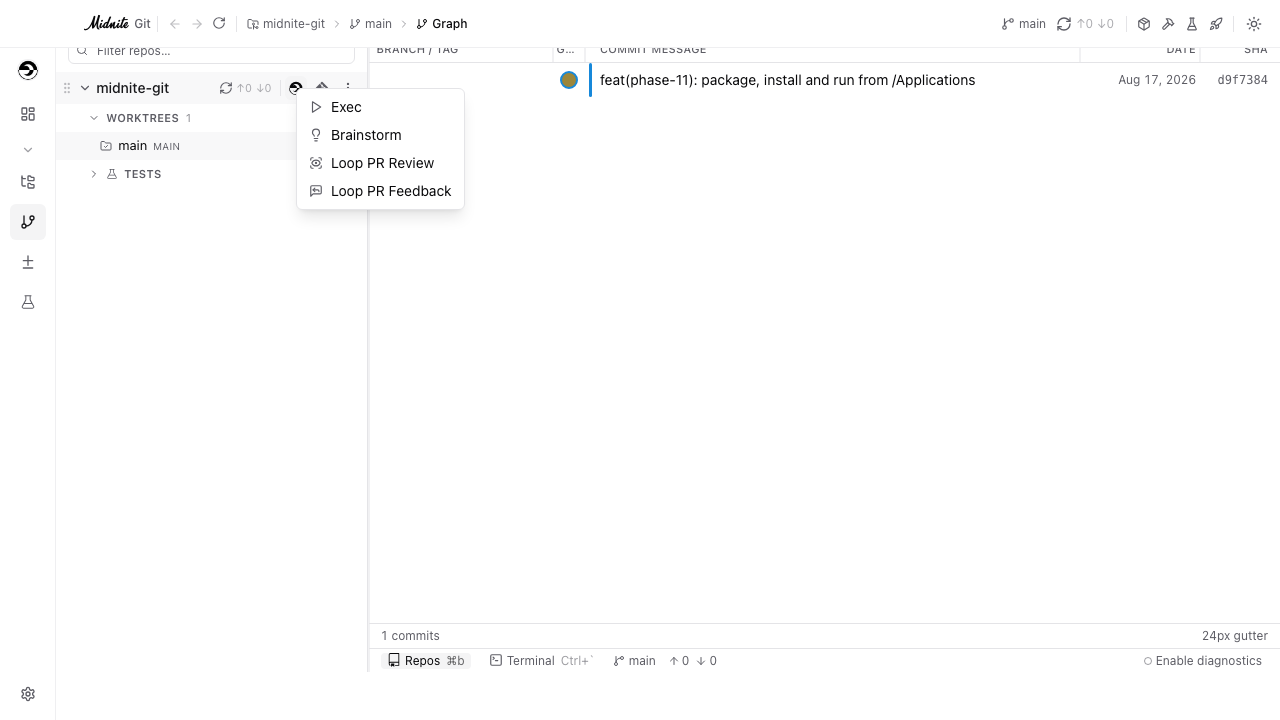
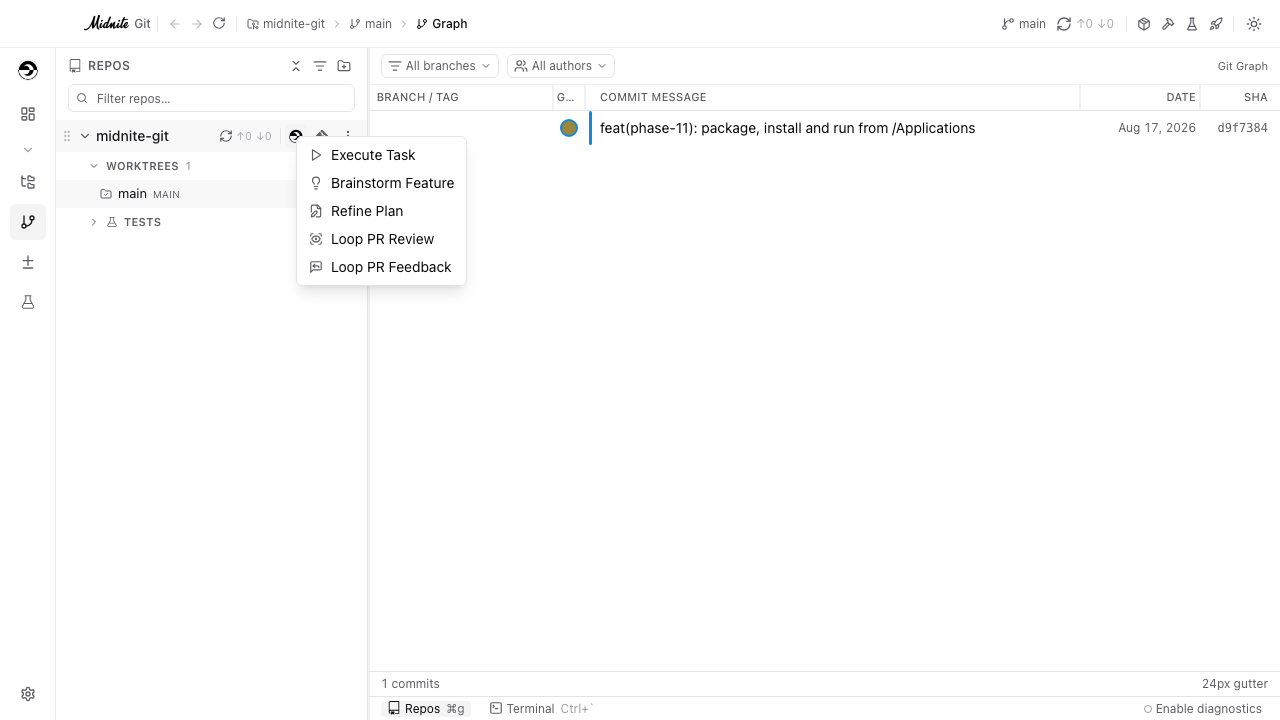
feat(agent): add Refine Plan to the midnite menu, reword Exec/Brainstorm
A fifth entry, `refine`, defaulting to `/refine` — the skill that deepens an
existing todo/ phase doc. It lands in both places that render AGENT_COMMANDS:
the repository row's midnite menu and Settings → Agent, where its skill can be
pointed elsewhere like any other entry.

The two rewordings are display-only. "Exec" → "Execute Task" and "Brainstorm" →
"Brainstorm Feature" change the `label`, not the `AgentCommandId` — so the
persisted keys, the default skills and everything keyed off them are untouched,
and a stored preference survives the rename.

`merge` already re-spread `agentSkills` for exactly this case, so a blob written
before `refine` existed gains the key instead of replacing the record.

Adds agent-commands.test.ts, because AGENT_COMMANDS is a flat array rather than
a record keyed by AgentCommandId: TypeScript cannot notice an id nobody gave a
label to, and such an id is invisible twice over — no menu row and no settings
field. The test holds the two lists to the same ids in the same order, and keeps
labels distinct so each settings field's "Skill for …" stays unambiguous.

diff --git a/packages/app/e2e/midnite-menu.spec.ts b/packages/app/e2e/midnite-menu.spec.ts
@@ -43,7 +43,7 @@ const ptyInputs = (page: Page) =>
 
 async function openMidniteMenu(page: Page): Promise<void> {
   await page.getByRole('button', { name: `Run a midnite skill on ${REPO}` }).click();
-  await expect(page.getByRole('menuitem', { name: 'Exec' })).toBeVisible();
+  await expect(page.getByRole('menuitem', { name: 'Execute Task' })).toBeVisible();
 }
 
 test('the row carries three menus, midnite first and the ellipsis last', async ({ page }) => {
@@ -75,21 +75,29 @@ test('the row carries three menus, midnite first and the ellipsis last', async (
   ]);
 });
 
-test('the menu offers the four agent verbs, each with its own glyph', async ({ page }) => {
+test('the menu offers the five agent verbs, each with its own glyph', async ({ page }) => {
   await open(page);
   await openMidniteMenu(page);
 
   const items = page.getByRole('menuitem');
-  await expect(items).toHaveText(['Exec', 'Brainstorm', 'Loop PR Review', 'Loop PR Feedback']);
-  // Iconed throughout, like every other menu the row opens — a menu of four
+  // The labels, not the ids — what the menu shows is a display layer over
+  // `AgentCommandId`, and this is the assertion that keeps the two apart.
+  await expect(items).toHaveText([
+    'Execute Task',
+    'Brainstorm Feature',
+    'Refine Plan',
+    'Loop PR Review',
+    'Loop PR Feedback',
+  ]);
+  // Iconed throughout, like every other menu the row opens — a menu of five
   // bare verbs would be the one place the app drops its glyphs.
-  await expect(items.locator('svg')).toHaveCount(4);
+  await expect(items.locator('svg')).toHaveCount(5);
 });
 
 test('an entry opens a Claude session with its skill typed, not run', async ({ page }) => {
   await open(page);
   await openMidniteMenu(page);
-  await page.getByRole('menuitem', { name: 'Exec' }).click();
+  await page.getByRole('menuitem', { name: 'Execute Task' }).click();
 
   await expect(page.locator('[data-terminal-panel]')).toBeVisible();
   await expect.poll(() => ptyInputs(page)).toEqual(["claude '/exec'"]);
@@ -106,7 +114,7 @@ test('pointing the entry at another skill in Settings changes what it sends', as
   await page.getByRole('button', { name: 'Settings' }).click();
   await page.getByRole('button', { name: 'Agent', exact: true }).click();
 
-  const field = page.getByRole('textbox', { name: 'Skill for Exec' });
+  const field = page.getByRole('textbox', { name: 'Skill for Execute Task' });
   await expect(field).toHaveValue('/exec');
   await field.fill('/exec-issue');
 
@@ -117,7 +125,7 @@ test('pointing the entry at another skill in Settings changes what it sends', as
 
   await page.getByRole('link', { name: 'Graph' }).click();
   await openMidniteMenu(page);
-  await page.getByRole('menuitem', { name: 'Exec' }).click();
+  await page.getByRole('menuitem', { name: 'Execute Task' }).click();
 
   await expect.poll(() => ptyInputs(page)).toEqual(["claude '/exec-issue'"]);
 });

diff --git a/packages/app/src/store/ui-store.ts b/packages/app/src/store/ui-store.ts
@@ -441,9 +441,9 @@ export type UiState = {
    * Which Claude skill each entry of the sidebar's midnite menu invokes.
    *
    * A setting rather than a constant because a skill is a *file in the user's
-   * `~/.claude`*, not something this app ships: `/exec` and `/brainstorm` are
-   * this repository's own project skills, `/loop-pr-reviews` and
-   * `/loop-pr-feedback` are personal commands, and any of the four can be
+   * `~/.claude`*, not something this app ships: `/exec`, `/brainstorm` and
+   * `/refine` are this repository's own project skills, `/loop-pr-reviews` and
+   * `/loop-pr-feedback` are personal commands, and any of the five can be
    * renamed, forked or replaced without the app knowing. Hard-coding them would
    * make the menu silently open a terminal on a command that no longer exists.
    *
@@ -456,14 +456,15 @@ export type UiState = {
 };
 
 /**
- * The four verbs the sidebar's midnite menu offers.
+ * The five verbs the sidebar's midnite menu offers.
  *
  * Ids, not labels or glyphs: those live with the menu in
  * `features/agent/agent-commands.ts`, the same split `SETTINGS_PAGES` and
  * `PAGE_ICON` already use, so this file stays a plain data module that pulls no
- * icon package in behind it.
+ * icon package in behind it. The ids are also the persisted keys, so they stay
+ * put while the labels the menu shows are free to be reworded.
  */
-export type AgentCommandId = 'exec' | 'brainstorm' | 'loopPrReview' | 'loopPrFeedback';
+export type AgentCommandId = 'exec' | 'brainstorm' | 'refine' | 'loopPrReview' | 'loopPrFeedback';
 
 /**
  * What each entry invokes out of the box — the skills this repo and its author
@@ -472,6 +473,7 @@ export type AgentCommandId = 'exec' | 'brainstorm' | 'loopPrReview' | 'loopPrFee
 export const DEFAULT_AGENT_SKILLS: Record<AgentCommandId, string> = {
   exec: '/exec',
   brainstorm: '/brainstorm',
+  refine: '/refine',
   loopPrReview: '/loop-pr-reviews',
   loopPrFeedback: '/loop-pr-feedback',
 };
@@ -717,7 +719,7 @@ export const useUiStore = create<UiState>()(
           sectionFilters: { ...current.sectionFilters, ...saved.sectionFilters },
           /*
             Re-spread for the reason the comment above gives, and one more: a
-            blob written before a fifth menu entry existed would otherwise
+            blob written before a later menu entry existed would otherwise
             replace the whole record and leave that entry's skill `undefined`,
             which reaches the terminal as the string "undefined".
           */

diff --git a/packages/app/src/features/agent/agent-commands.test.ts b/packages/app/src/features/agent/agent-commands.test.ts
@@ -1,0 +1,39 @@
+import { describe, expect, it } from 'vitest';
+
+import { DEFAULT_AGENT_SKILLS } from '../../store/ui-store';
+import { AGENT_COMMANDS } from './agent-commands';
+
+/**
+ * `AGENT_COMMANDS` is a flat array, not a record keyed by `AgentCommandId`, so
+ * TypeScript cannot notice a new id that nobody gave a label to — and a
+ * label-less id is invisible twice over: no menu row, and no settings field to
+ * point it anywhere. These are the assertions that stand in for the exhaustive
+ * check the shape does not give.
+ */
+describe('AGENT_COMMANDS', () => {
+  it('covers every id the store persists a skill for, in one order', () => {
+    expect(AGENT_COMMANDS.map((command) => command.id)).toEqual(
+      Object.keys(DEFAULT_AGENT_SKILLS),
+    );
+  });
+
+  it('gives every entry its own label and its own glyph', () => {
+    const labels = AGENT_COMMANDS.map((command) => command.label);
+    const icons = AGENT_COMMANDS.map((command) => command.icon);
+
+    // Labels reach the DOM as the menu row's text and as each settings field's
+    // `aria-label` ("Skill for …"), so two entries sharing one would make both
+    // ambiguous to a screen reader and to every test that names them.
+    expect(new Set(labels).size).toBe(AGENT_COMMANDS.length);
+    expect(new Set(icons).size).toBe(AGENT_COMMANDS.length);
+  });
+
+  it('keeps the labels a display layer, free of the ids they render', () => {
+    // "Execute Task" over `exec`, "Refine Plan" over `refine`: the menu reads as
+    // verb phrases while the persisted keys stay short. Asserted so a later
+    // rename of one cannot quietly drag the other with it.
+    expect(AGENT_COMMANDS.find((command) => command.id === 'exec')?.label).toBe('Execute Task');
+    expect(AGENT_COMMANDS.find((command) => command.id === 'refine')?.label).toBe('Refine Plan');
+    expect(DEFAULT_AGENT_SKILLS.refine).toBe('/refine');
+  });
+});

diff --git a/packages/app/src/features/agent/agent-commands.ts b/packages/app/src/features/agent/agent-commands.ts
@@ -1,16 +1,27 @@
 import type { IconType } from 'react-icons';
-import { LuLightbulb, LuMessageSquareReply, LuPlay, LuScanEye } from 'react-icons/lu';
+import {
+  LuFilePen,
+  LuLightbulb,
+  LuMessageSquareReply,
+  LuPlay,
+  LuScanEye,
+} from 'react-icons/lu';
 
 import type { AgentCommandId } from '../../store/ui-store';
 
 /**
- * The midnite menu's four entries — what they are called, what glyph they take,
+ * The midnite menu's five entries — what they are called, what glyph they take,
  * and what the settings field for each should say.
  *
  * The ids and their default skills live on `ui-store` instead, and the split is
  * the one `SETTINGS_PAGES` / `PAGE_ICON` already draws: the store stays a plain
  * data module, so nothing that merely reads a persisted preference pulls an icon
  * package in behind it.
+ *
+ * Labels are a display layer over the ids, and deliberately not the ids
+ * themselves — "Execute Task" reads as a verb phrase in a menu where the id
+ * `exec` reads as jargon. Rewording one costs nothing, because the persisted
+ * key is the id and nothing anywhere keys off the label.
  *
  * Order is render order, in both places that render it — the menu and the Agent
  * settings page — so the two cannot disagree about which verb comes first.
@@ -26,15 +37,21 @@ export type AgentCommand = {
 export const AGENT_COMMANDS: readonly AgentCommand[] = [
   {
     id: 'exec',
-    label: 'Exec',
+    label: 'Execute Task',
     icon: LuPlay,
     hint: 'Pick up the next unblocked task and build it.',
   },
   {
     id: 'brainstorm',
-    label: 'Brainstorm',
+    label: 'Brainstorm Feature',
     icon: LuLightbulb,
     hint: 'Riff on a new phase and write the doc for it.',
+  },
+  {
+    id: 'refine',
+    label: 'Refine Plan',
+    icon: LuFilePen,
+    hint: 'Deepen an existing phase doc until any model could execute it.',
   },
   {
     id: 'loopPrReview',

diff --git a/packages/app/src/store/ui-store.test.ts b/packages/app/src/store/ui-store.test.ts
@@ -419,7 +419,7 @@ describe('the midnite menu\'s skills', () => {
 
     useUiStore.getState().setAgentSkill('exec', '/exec-issue');
 
-    // One entry moves; the other three are untouched.
+    // One entry moves; the other four are untouched.
     expect(useUiStore.getState().agentSkills).toEqual({
       ...DEFAULT_AGENT_SKILLS,
       exec: '/exec-issue',
@@ -442,7 +442,7 @@ describe('the midnite menu\'s skills', () => {
     /*
       The reason `merge` re-spreads this record. zustand's default shallow merge
       would replace the whole object with the stored one, and a payload written
-      before a fifth entry existed carries no key for it — which reaches the
+      before a later entry existed carries no key for it — which reaches the
       shell as `claude 'undefined'`, a prompt rather than a crash.
     */
     const merged = useUiStore.persist.getOptions().merge?.(

diff --git a/packages/app/e2e/midnite-menu-shots.spec.ts b/packages/app/e2e/midnite-menu-shots.spec.ts
@@ -44,6 +44,6 @@ test('the menu, open', async ({ page }) => {
 test('the Agent page, where each entry is pointed', async ({ page }) => {
   await page.getByRole('button', { name: 'Settings' }).click();
   await page.getByRole('button', { name: 'Agent', exact: true }).click();
-  await expect(page.getByRole('textbox', { name: 'Skill for Exec' })).toBeVisible();
+  await expect(page.getByRole('textbox', { name: 'Skill for Execute Task' })).toBeVisible();
   await shoot(page, 'settings-agent-skills');
 });
